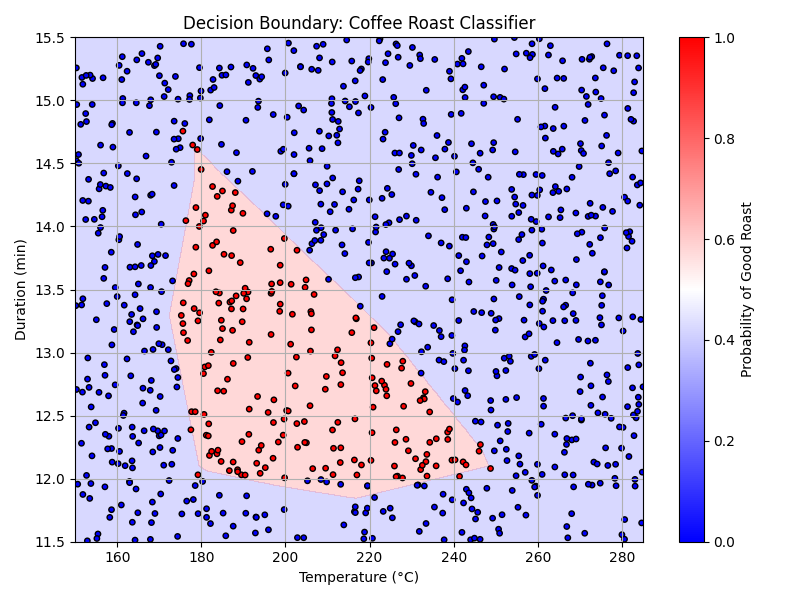
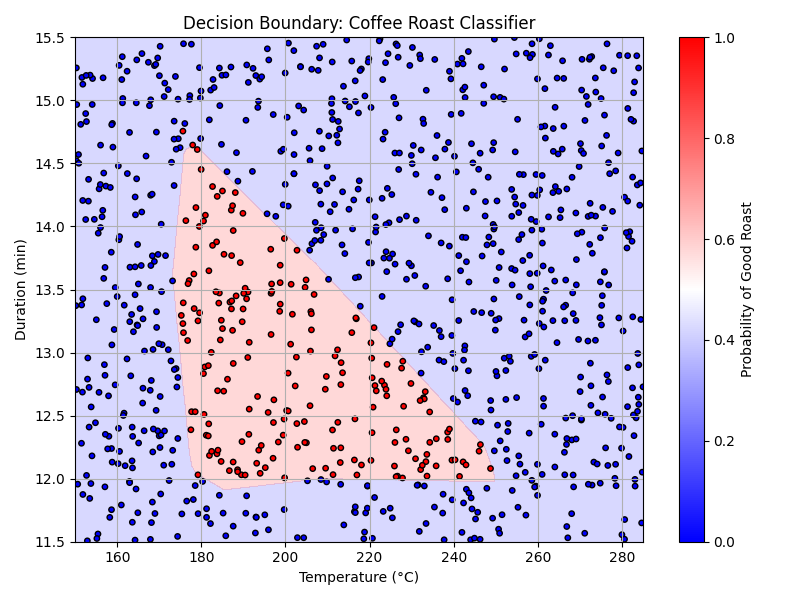
add new files

diff --git a/ML/Advanced Learning Algorithms/Neural_network_Using_TF.py b/ML/Advanced Learning Algorithms/Neural_network_Using_TF.py
@@ -32,12 +32,15 @@ Xn, mu, sigma = normalize(X)
 
 # --- Model Definition ---
 model = Sequential([    
-    Dense(10, activation='relu'),
-    Dense(5, activation='relu'),
-    Dense(1, activation='sigmoid')
+    Dense(10, activation='relu'),       # First hidden layer: 10 neurons, ReLU activation for non-linearity
+    Dense(5, activation='relu'),        # Second hidden layer: 5 neurons, ReLU activation
+    Dense(1, activation='sigmoid')      # Output layer: 1 neuron, sigmoid to output probability between 0 and 1
+    # Dense(1, activation='linear')     # (Alternative) Output raw logits instead of probabilities
 ])
 
-model.compile(loss=BinaryCrossentropy())
+model.compile(loss=BinaryCrossentropy())        # Binary cross-entropy loss; expects probabilities (from_logits=False by default)
+# model.compile(loss=BinaryCrossentropy(from_logits=True))  # Use this if output layer is linear (logits); loss will apply sigmoid internally
+
 
 # --- Train Model ---
 model.fit(Xn, Y, epochs=300)
